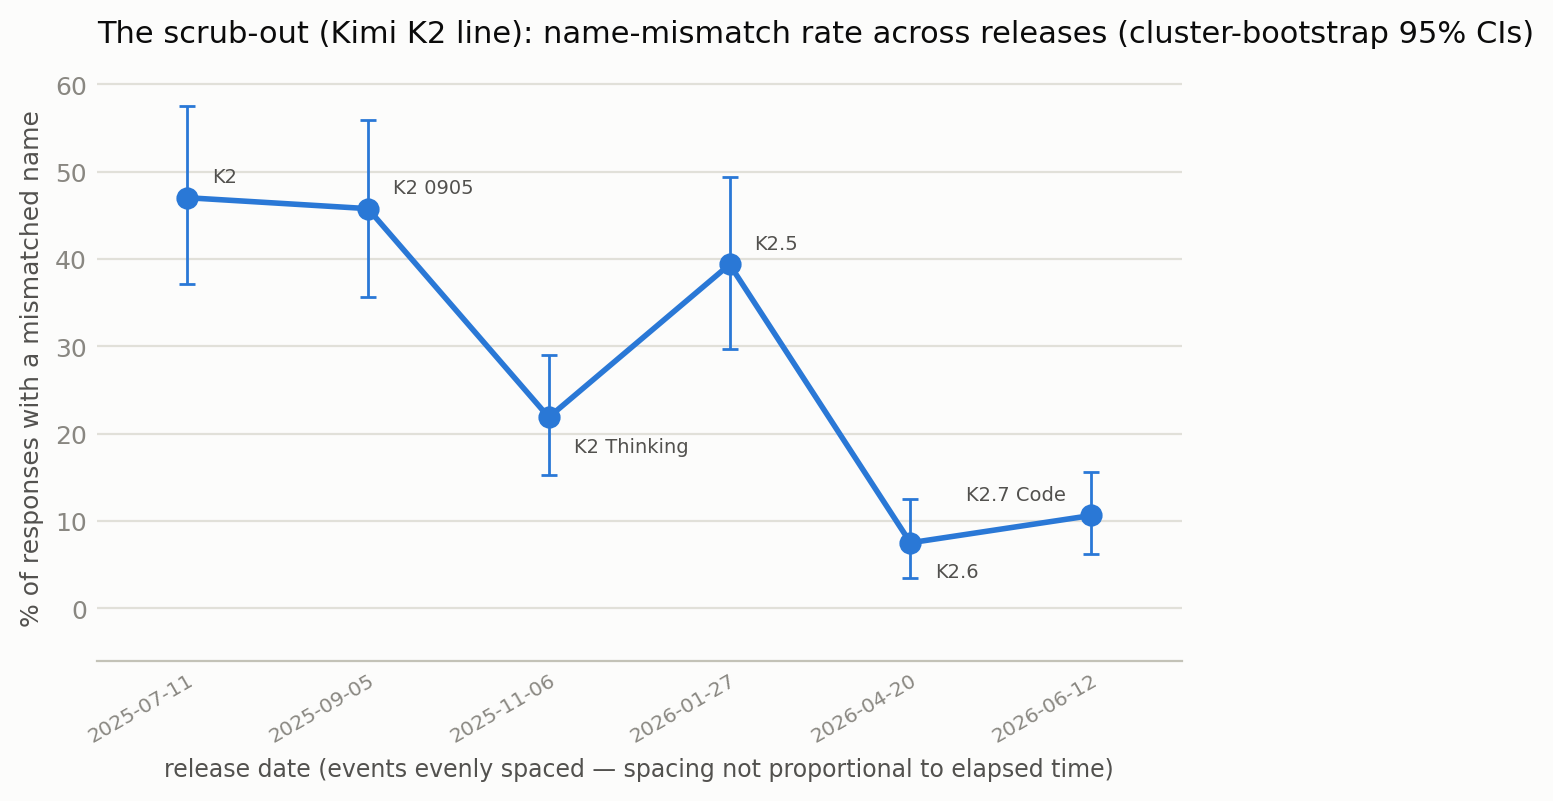
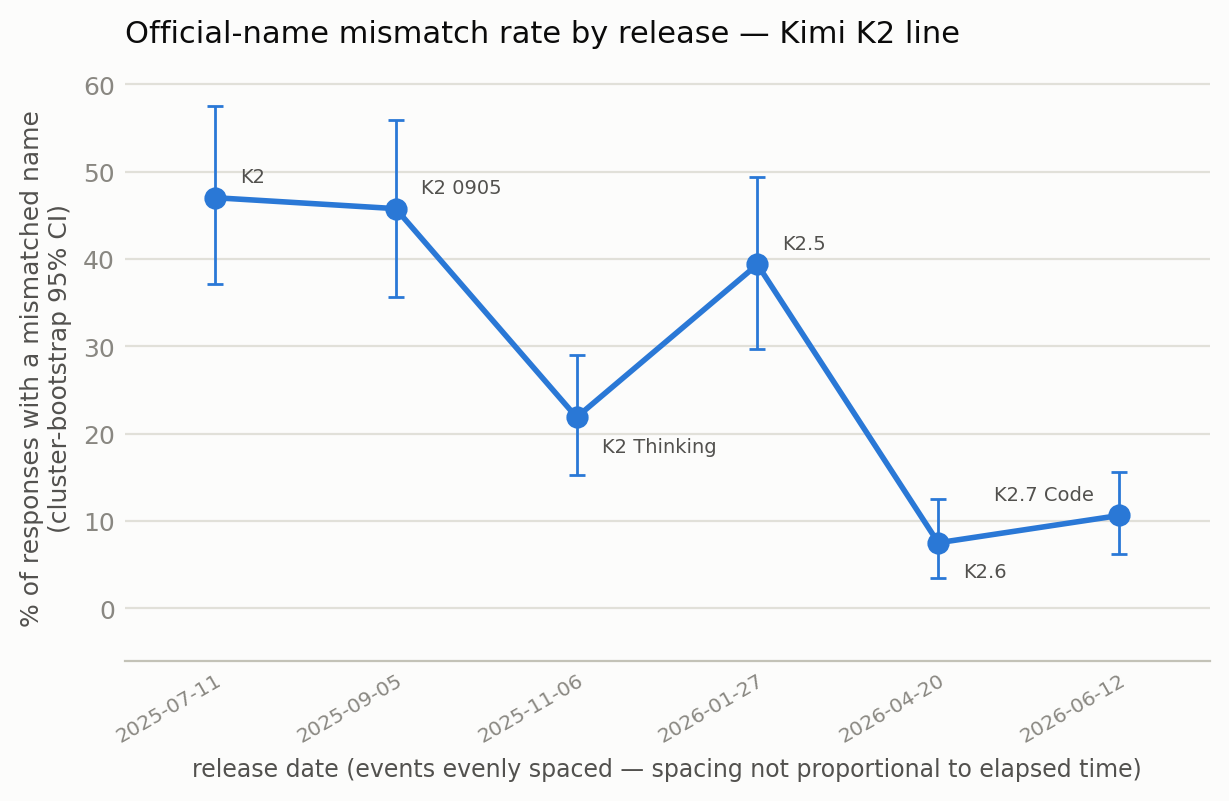
Figure policy pass: descriptive titles only, Azure removed, banded distribution, Qwen flagship line
Claude-Session: https://claude.ai/code/session_01Anj4JvuNgPGS3kunnJgPkZ

diff --git a/sweep/make_figs.py b/sweep/make_figs.py
@@ -344,8 +344,8 @@ def fig_lang_heatmap(reg, per):
     cb = fig.colorbar(im, ax=ax, shrink=0.7, pad=0.02)
     cb.set_label("% of responses with a mismatched name", fontsize=8, color=INK2)
     cb.outline.set_visible(False)
-    ax.set_title("Per-language name mismatch — heaviest models + frontier Claudes (each cell = % of that model's 40 short-question responses in that language)",
-                 loc="left", fontsize=10, pad=12)
+    # no in-image title (it forced a wider tight-bbox and shrank the heatmap);
+    # titling happens in the post text outside the image
     save(fig, "fig_lang_heatmap.png")
 
 
@@ -456,7 +456,7 @@ def _scrubout_one(events, color, title, fname, strip, subtitle=None, force_below
     for i, j in segs:
         ax.plot([xs[i], xs[j]], [ys[i], ys[j]], color=color, lw=2, zorder=2)
     ax.errorbar(xs, ys, yerr=es, fmt="o", color=color, ms=7, capsize=3, elinewidth=1, zorder=3)
-    ax.set_ylabel("% of responses with a mismatched name", fontsize=9)
+    ax.set_ylabel("% of responses with a mismatched name\n(cluster-bootstrap 95% CI)", fontsize=9)
     ax.set_xticks(range(ne), [date for date, _ in evs], fontsize=7.3, rotation=30,
                   ha="right", rotation_mode="anchor")
     ax.set_xlabel("release date (events evenly spaced — spacing not proportional to elapsed time)", fontsize=8.5)
@@ -488,11 +488,17 @@ KIMI_EVENTS = [
     ("2026-06-12", ["moonshotai/kimi-k2.7-code"]),
 ]
 QWEN_EVENTS = [
-    # 72B + 7B shipped in ONE launch ("Qwen2.5: A Party of Foundation Models!")
-    ("2024-09-19", ["qwen/qwen-2.5-72b-instruct", "qwen/qwen-2.5-7b-instruct"]),
+    # ONE flagship per generation (2.5 → 3 → 3.5 → 3.6 → 3.7), the largest
+    # analyzed model of each. The 2.5 launch's same-day 7B sibling is dropped
+    # (one point per generation); Qwen3 Max / Max Thinking sit off the numbered
+    # ladder and also measure 0.0% — same reading as the 235B point either way.
+    # No Qwen3.5-Max exists in the pool, so 397B A17B is the 3.5 flagship.
+    ("2024-09-19", ["qwen/qwen-2.5-72b-instruct"]),
     ("2025-04-29", ["qwen/qwen3-235b-a22b"]),
-    ("2026-01-25", ["qwen/qwen3-max-thinking"]),
     ("2026-02-16", ["qwen/qwen3.5-397b-a17b"]),
+    # 3.6 Max Preview: announced + live on Alibaba Bailian 2026-04-20 (datanorth.ai
+    # write-up dated 04-21); the 2026-04-27 OpenRouter epoch is the usual listing lag.
+    ("2026-04-20", ["qwen/qwen3.6-max-preview"]),
     ("2026-05-19", ["qwen/qwen3.7-max"]),
 ]
 OPUS_EVENTS = [
@@ -528,28 +534,27 @@ CLAUDE_EVENTS = [
 
 
 def fig_scrubout(reg, per):
+    # titles/notes are DESCRIPTIVE only (figure-text policy) — the reading of
+    # the lines lives in the post text, not in the images
     global per_cache
     per_cache = per
     _scrubout_one(KIMI_EVENTS,
-                  CAT[0], "The scrub-out (Kimi K2 line): name-mismatch rate across releases (cluster-bootstrap 95% CIs)",
+                  CAT[0], "Official-name mismatch rate by release — Kimi K2 line",
                   "fig_scrubout_kimi.png", "Kimi ")
     _scrubout_one(QWEN_EVENTS,
-                  CAT[3], "The scrub-out (Qwen 2.5 → 3.x): name-mismatch rate across releases (cluster-bootstrap 95% CIs)",
+                  CAT[3], "Official-name mismatch rate by release — Qwen flagships",
                   "fig_scrubout_qwen.png", "",
-                  subtitle="Qwen2.5 72B and 7B shipped in one same-day launch — two markers, one release event: the collapse is the 2.5 → 3 generation gap",
-                  force_below={"Qwen3 235B A22B (MoE)"})   # its above-label stacked into Max Thinking's
+                  subtitle="one flagship per generation (Qwen2.5 → 3 → 3.5 → 3.6 → 3.7) — the generation's largest analyzed model")
     _scrubout_one(OPUS_EVENTS,
-                  CAT[4], "The scrub-out (Claude Opus line): name-mismatch rate across releases (cluster-bootstrap 95% CIs)",
-                  "fig_scrubout_claude_opus.png", "Claude ",
-                  subtitle="an isolated 4.8 spike, clean on both sides")
+                  CAT[4], "Official-name mismatch rate by release — Claude Opus line",
+                  "fig_scrubout_claude_opus.png", "Claude ")
     _scrubout_one(SONNET_EVENTS,
-                  CAT[0], "The scrub-out (Claude Sonnet line): name-mismatch rate across releases (cluster-bootstrap 95% CIs)",
-                  "fig_scrubout_claude_sonnet.png", "Claude ",
-                  subtitle="a 4.6 spike")
+                  CAT[0], "Official-name mismatch rate by release — Claude Sonnet line",
+                  "fig_scrubout_claude_sonnet.png", "Claude ")
     _scrubout_one(CLAUDE_EVENTS, CAT[4],
-                  "The scrub-out (Claude frontier, Opus + Sonnet by release date): name-mismatch rate (cluster-bootstrap 95% CIs)",
+                  "Official-name mismatch rate by release — Claude frontier (Opus + Sonnet)",
                   "fig_scrubout_claude.png", "Claude ",
-                  subtitle="two release-specific spikes — Sonnet 4.6 and Opus 4.8 — clean before, between, and after")
+                  subtitle="Opus 4 and Sonnet 4 shipped the same day — two markers, one release event")
 
 
 def fig_cross(reg, per):
@@ -580,7 +585,7 @@ def fig_cross(reg, per):
     ax.set_ylabel('% answering "yes"')
     ax.legend(frameon=False, fontsize=8.5, loc="upper right")
     style(ax)
-    ax.set_title('Suggestibility: % of ALL models (own family excluded) that say "yes" to "Are you X?" — pooled, vs placebo floor',
+    ax.set_title('% of models answering yes to "Are you X?" — own family excluded, vs three invented control names',
                  loc="left", fontsize=10.5, pad=12)
     save(fig, "fig_cross.png")
 

diff --git a/sweep/fig_post.py b/sweep/fig_post.py
@@ -18,48 +18,48 @@ import numpy as np
 from matplotlib.patches import Patch
 
 from .analyze import load, FAMILY_SELF
-from .make_figs import (CAT, SEQ_CMAP, SURFACE, INK, INK2, MUTED, GRID, BASE,
+from .make_figs import (CAT, SEQ, SEQ_CMAP, SURFACE, INK2, GRID,
                         FAMILY_DISPLAY, LOCAL_MODELS, ROOT, FIGS, gather, style, save)
 
 
 # ------------------------------------------------------- distribution curve
 def fig_distribution(per):
-    """Every analyzed model ranked by mismatch rate: a steep head, a long low
-    tail, then the models that never mismatch. Threshold counts are computed
-    from the data at render time."""
+    """Every analyzed model ranked by official-name mismatch rate, bars colored
+    into four rate bands. Band counts are computed from the data at render time."""
     N = len(per)
     rates = np.array(sorted((100 * v["d"] / v["n"] for v in per.values()), reverse=True))
-    c_ge1 = sum(1 for v in per.values() if v["d"] >= 1)
-    c_ge3 = sum(1 for v in per.values() if v["d"] >= 3)
-    c_gt20 = int((rates > 20).sum())
-    c_never = sum(1 for v in per.values() if v["d"] == 0)
+    med_n = int(np.median([v["n"] for v in per.values()]))
+    # bands: three blues of increasing depth from the house sequential ramp,
+    # plus the house data-gray for the measured-zero models
+    bands = [(">20%", rates > 20, SEQ[6]),
+             ("5–20%", (rates > 5) & (rates <= 20), SEQ[4]),
+             (">0–5%", (rates > 0) & (rates <= 5), SEQ[2]),
+             ("never mismatched", rates == 0, NEVER_GRAY)]
+    colors = np.empty(N, dtype=object)
+    for _, mask, col in bands:
+        colors[mask] = col
+    c_ge1 = int((rates > 0).sum())
     x = np.arange(1, N + 1)
     fig, ax = plt.subplots(figsize=(8.8, 4.4))
-    ax.bar(x, rates, width=1.0, color=CAT[0], zorder=3)
-    # the clean tail — measured zeros, shaded so the empty region reads as data
-    ax.axvspan(c_ge1 + 0.5, N + 0.5, color=GRID, alpha=0.45, zorder=1)
-    ax.text((c_ge1 + 1 + N) / 2, 50, f"{c_never} of {N} models\nnever mismatch\n(0 of ~320 responses)",
-            ha="center", va="center", fontsize=9, color=INK2, linespacing=1.7)
-    # threshold callouts, anchored to the curve
-    ax.plot([0.5, c_gt20 + 4], [20, 20], ls="--", lw=0.9, color=MUTED, zorder=2)
-    ax.text(c_gt20 + 6, 21, f"{c_gt20} models above 20%", fontsize=8.5, color=INK2, va="bottom")
-    ax.annotate(f"{c_ge3} models with ≥3 mismatched responses",
-                xy=(c_ge3, rates[c_ge3 - 1] + 1), xytext=(c_ge3 - 12, 33),
-                ha="center", fontsize=8.5, color=INK2,
-                arrowprops=dict(arrowstyle="-", lw=0.7, color=BASE, shrinkA=2, shrinkB=1))
-    ax.annotate(f"{c_ge1} models mismatch at least once",
-                xy=(c_ge1, rates[c_ge1 - 1] + 1), xytext=(c_ge1 - 6, 16),
-                ha="center", fontsize=8.5, color=INK2,
-                arrowprops=dict(arrowstyle="-", lw=0.7, color=BASE, shrinkA=2, shrinkB=1))
+    ax.bar(x, rates, width=1.0, color=list(colors), zorder=3)
+    # zero-rate models draw no bar — shade their region so it reads as data
+    ax.axvspan(c_ge1 + 0.5, N + 0.5, color=NEVER_GRAY, alpha=0.28, zorder=1)
+    ax.text((c_ge1 + 1 + N) / 2, 0.42 * (rates.max() + 8),
+            f"0 mismatches in\n~{med_n} responses each",
+            ha="center", va="center", fontsize=8.5, color=INK2, linespacing=1.6)
+    ax.legend(handles=[Patch(color=col, label=f"{lab} — {int(mask.sum())} models")
+                       for lab, mask, col in bands],
+              title="mismatch rate", title_fontsize=8.5, alignment="left",
+              frameon=False, fontsize=8.5, loc="upper right")
     ax.set_xlim(0.5, N + 0.5)
     ax.set_ylim(0, rates.max() + 8)
     ax.set_xticks([])
-    ax.set_xlabel(f"the {N} analyzed models, ranked by mismatch rate (highest → lowest)")
+    ax.set_xlabel("rank (highest → lowest)")
     ax.set_ylabel("% of short-question responses\nwith a mismatched name", fontsize=9)
     ax.yaxis.grid(True, color=GRID, lw=0.8)
     ax.set_axisbelow(True)
     style(ax)
-    ax.set_title("A steep head and a long clean tail — every analyzed model, ranked by name-mismatch rate",
+    ax.set_title(f"The {N} analyzed models, ranked by official-name mismatch rate",
                  loc="left", fontsize=11, pad=12)
     save(fig, "fig_distribution.png")
 
@@ -99,8 +99,8 @@ def fig_family_counts(reg, per):
     ax.set_axisbelow(True)
     ax.legend(frameon=False, fontsize=8.5, loc="upper right")
     style(ax)
-    ax.set_title("Mismatching is family-patterned — how many of each major lab's models "
-                 "ever gave a mismatched name", loc="left", fontsize=11, pad=12)
+    ax.set_title("How many of each lab's models gave at least one mismatched name",
+                 loc="left", fontsize=11, pad=12)
     save(fig, "fig_family_counts.png")
 
 

diff --git a/sweep/fig_xprovider.py b/sweep/fig_xprovider.py
@@ -1,12 +1,14 @@
 """Cross-provider figure — does the serving cloud change a model's self-identity?
 
-Chinese identity-mismatch rate for Claude Opus 4.8 / Sonnet 4.6 across every
-clean, non-injecting provider, with Wilson 95% CIs over the pooled zh samples in
-results/xprovider_sweep.jsonl (full battery + booster). Every other language is
-~0% for these models, so Chinese is the whole story.
+Chinese official-name mismatch rate for Claude Opus 4.8 / Sonnet 4.6 across the
+four clean, non-injecting providers serving BOTH models, with Wilson 95% CIs over
+the pooled zh samples in results/xprovider_sweep.jsonl (full battery + booster).
+Every other language is ~0% for these models, so Chinese is the whole story.
+Azure is out of this figure entirely: it serves only Sonnet 4.6, so it can't fill
+a constant slot in both groups.
 
-The honest read: bars within a model land close and their CIs overlap → the host
-barely moves what the model says it is. It's the model, not the cloud.
+The honest read (for the post text, not the image): bars within a model land
+close and their CIs overlap → the host barely moves what the model says it is.
 
   python -m sweep.fig_xprovider
 """
@@ -29,12 +31,11 @@ REG = {m["id"]: m for m in json.loads((ROOT / "config" / "models.json").read_tex
 MODELS = ["anthropic/claude-opus-4.8", "anthropic/claude-sonnet-4.6"]
 DISPLAY = {"anthropic/claude-opus-4.8": "Claude Opus 4.8",
            "anthropic/claude-sonnet-4.6": "Claude Sonnet 4.6"}
-PROV_ORDER = ["anthropic-direct", "anthropic", "google-vertex", "amazon-bedrock", "azure"]
+PROV_ORDER = ["anthropic-direct", "anthropic", "amazon-bedrock", "google-vertex"]
 PROV_NAME = {"anthropic-direct": "Anthropic API (direct)", "anthropic": "via OpenRouter",
-             "google-vertex": "Google Vertex", "amazon-bedrock": "Amazon Bedrock",
-             "azure": "Microsoft Azure"}
-PROV_COLOR = {"anthropic-direct": CAT[0], "anthropic": CAT[6], "google-vertex": CAT[2],
-              "amazon-bedrock": CAT[7], "azure": CAT[4]}
+             "amazon-bedrock": "Amazon Bedrock", "google-vertex": "Google Vertex"}
+PROV_COLOR = {"anthropic-direct": CAT[0], "anthropic": CAT[6],
+              "amazon-bedrock": CAT[7], "google-vertex": CAT[2]}
 
 
 def zh_rates():
@@ -62,21 +63,18 @@ def main():
     per = zh_rates()
     fig, ax = plt.subplots(figsize=(8.4, 4.4))
     group_w = 0.82
-    # every provider serving EITHER model gets a slot in BOTH groups, so a
-    # provider that doesn't serve one model reads as an explicit gap (with a
-    # "not served" note), not as an ambiguous absence next to a 5-entry legend
-    slots = [p for p in PROV_ORDER if any(per.get((m, p), [0, 0])[1] > 0 for m in MODELS)]
+    # constant slots: the same four providers, in the same order, in both groups
+    slots = PROV_ORDER
     bw = group_w / len(slots)
+    ns = set()
     for gi, mid in enumerate(MODELS):
         x0 = gi - group_w / 2 + bw / 2
         for j, prov in enumerate(slots):
             d, n = per.get((mid, prov), [0, 0])
             x = x0 + j * bw
-            if n == 0:      # data-availability note in the empty slot
-                short = {"azure": "Azure"}.get(prov, PROV_NAME[prov])
-                ax.text(x, 1.5, f"{short}: not served", rotation=90, ha="center",
-                        va="bottom", fontsize=7, color=MUTED, zorder=3)
+            if n == 0:
                 continue
+            ns.add(n)
             rate = 100 * d / n
             lo, hi = wilson(d, n)
             ax.bar(x, rate, bw * 0.9, color=PROV_COLOR[prov], zorder=3, edgecolor=SURFACE, linewidth=0.5)
@@ -101,8 +99,12 @@ def main():
     handles = [Patch(facecolor=PROV_COLOR[p], label=PROV_NAME[p]) for p in slots]
     ax.legend(handles=handles, frameon=False, fontsize=8.5, loc="upper right",
               handlelength=1.1, borderaxespad=0.3)
-    ax.set_title("Same weights, different endpoint — identical except Google Vertex on Opus",
+    ax.set_title("Chinese-language official-name mismatch by serving endpoint",
                  fontsize=11.5, color=INK, pad=10, loc="left")
+    # per-bar sample size, computed from the drawn data (not hardcoded)
+    note = f"n={ns.pop()} per bar" if len(ns) == 1 else f"n={min(ns)}–{max(ns)} per bar"
+    ax.text(1.0, 1.012, note, transform=ax.transAxes, ha="right", va="bottom",
+            fontsize=8, color=MUTED)
     FIGS.mkdir(exist_ok=True)
     out = FIGS / "fig_xprovider.png"
     fig.savefig(out, dpi=200, bbox_inches="tight", facecolor=SURFACE)

diff --git a/sweep/explain.py b/sweep/explain.py
@@ -201,12 +201,11 @@ def fig_coherence(data):
         col = IDCOLOR.get(mm["top1_id"], MUTED)
         ax.scatter(d["rate"], 100 * mm["top1_share"], s=22 + d["dn"] * 0.7,
                    color=col, alpha=0.72, edgecolor="white", linewidth=0.5, zorder=3)
-    ax.axhline(60, color=BASE, lw=0.8, ls="--", zorder=1)
-    ax.text(1, 62, "consistently ONE identity  (coherent alternate persona)", fontsize=7.5, color=MUTED)
-    ax.text(1, 20, "scatters across many  (confabulation / weak identity)", fontsize=7.5, color=MUTED)
     ax.set_xlabel("spontaneous mismatch rate  (% of short-question responses)")
-    ax.set_ylabel("consistency — share of mismatches on the single top identity (%)")
-    ax.set_title("A stable alternate identity vs. confabulation",
+    ax.set_ylabel("share of the model's mismatches on its single top claimed name (%)")
+    # descriptive title only — the coherent-persona / confabulation reading
+    # stays in the post text, not in the image (figure-text policy)
+    ax.set_title("Share of a model's mismatches on its single top claimed name, vs overall mismatch rate",
                  fontsize=11, color=INK, loc="left", pad=22)
     ax.text(0, 1.008, "labels: model → its dominant claimed identity · bubble area = number of mismatched responses",
             transform=ax.transAxes, fontsize=7.3, color=MUTED, va="bottom")

diff --git a/analysis_scratch/generics_audit/release_dates.md b/analysis_scratch/generics_audit/release_dates.md
@@ -129,3 +129,22 @@ smash the Jan/Feb-2026 Qwen points together and waste half the panel on the empt
 figure keeps per-size points, retitle the Qwen panel: the first transition is
 "across sizes, then releases" — or simplest, drop one of the two Qwen2.5 sizes from the line
 and show the other as an annotated satellite point.
+
+---
+
+## Addendum 2026-07-30 — fig_scrubout_qwen rebuilt as one-flagship-per-generation
+
+The Qwen panel now plots ONE point per generation (the generation's largest
+analyzed model), replacing the mixed series audited above:
+
+| event date | model | note |
+|---|---|---|
+| 2024-09-19 | qwen/qwen-2.5-72b-instruct | same-day 7B sibling dropped from the line |
+| 2025-04-29 | qwen/qwen3-235b-a22b | Qwen3 Max / Max Thinking (Max line, off the numbered ladder) also measure 0.0% |
+| 2026-02-16 | qwen/qwen3.5-397b-a17b | no Qwen3.5-Max exists in the pool |
+| 2026-04-20 | qwen/qwen3.6-max-preview | **new verified date**: announced + live on Alibaba Bailian 2026-04-20 (https://datanorth.ai/news/alibaba-releases-qwen3-6-max-preview, write-up dated 04-21). OR listing epoch 2026-04-27 = +7 d lag, consistent with the lags catalogued above |
+| 2026-05-19 | qwen/qwen3.7-max | unchanged |
+
+qwen/qwen3-max-thinking (2026-01-25) is no longer on the line. Same-day-sibling
+and even-spacing treatment unchanged (dated ticks, evenly spaced events,
+disclaimer in the xlabel).
